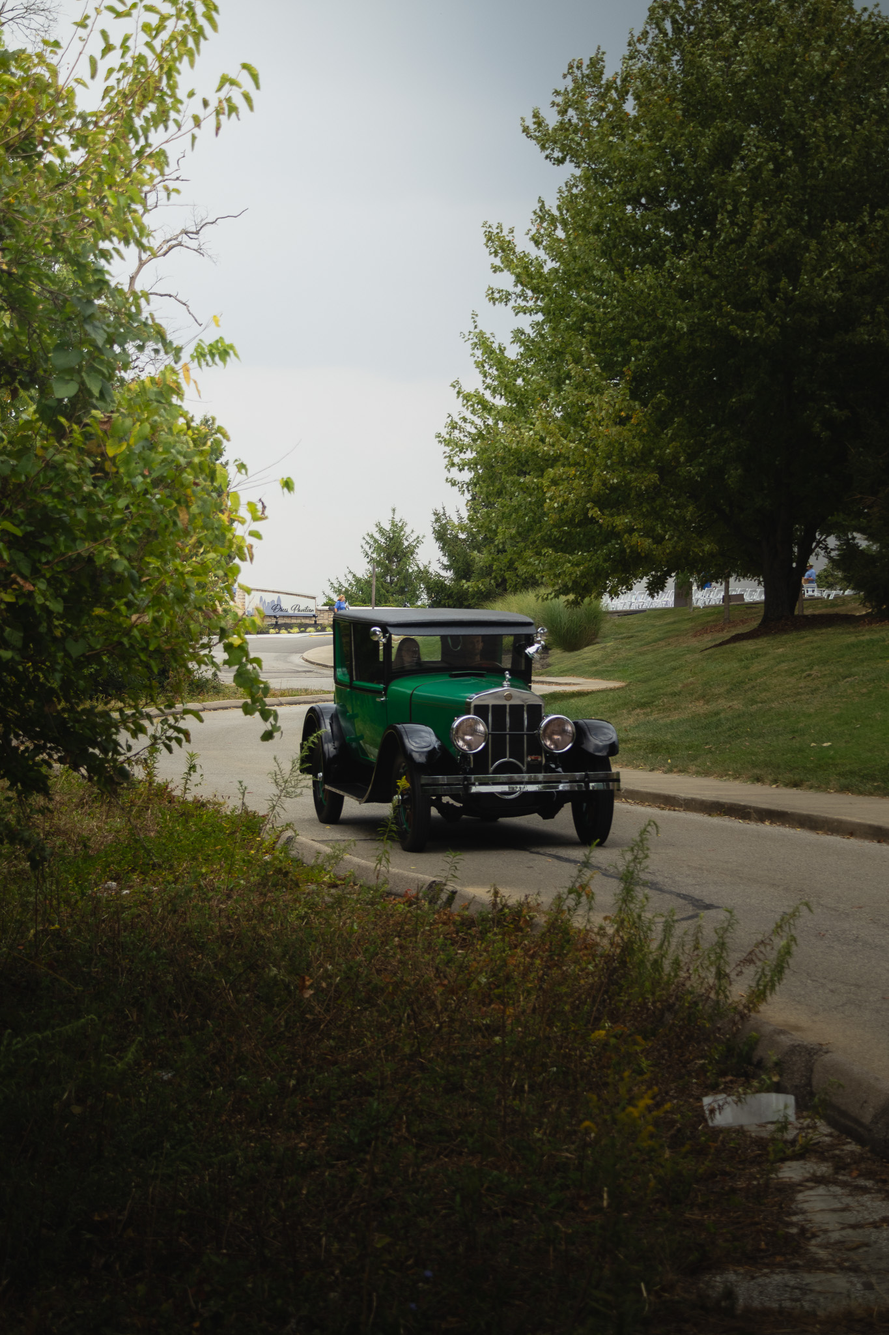
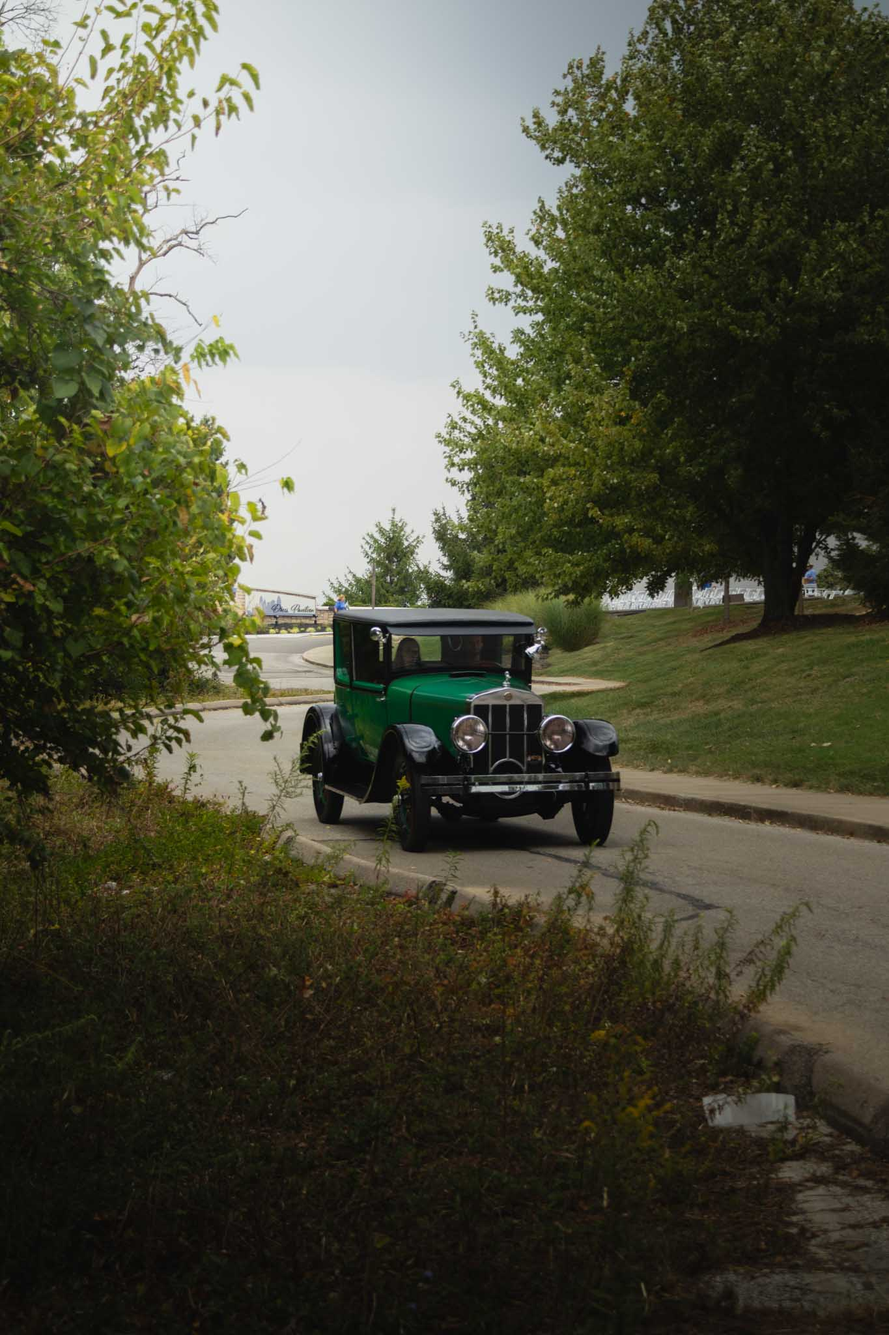
Low files for sub-galleries

diff --git a/automotive.html b/automotive.html
@@ -58,7 +58,7 @@
         </figure>
 
         <figure class="photo-item">
-          <img src="images/automotive/IMG_1598.jpg" alt="Photo 7">
+          <img src="images/automotive/IMG_1627.jpg" alt="Photo 7">
         </figure>
 
         <figure class="photo-item photo-wide">
